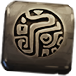
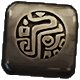
placeholder button for new feature

diff --git a/css/web/boxes.css b/css/web/boxes.css
@@ -474,6 +474,10 @@ p {
 	background: linear-gradient(#464040, #2c2d33) padding-box, linear-gradient(to bottom, #82ae4c, #4f7421) border-box;
 }
 
+[id$=marketOffers-Btn] span {
+	background-image: url('../images/menu/marketOffers.png');
+}
+
 [id$=stats-Btn] span {
 	background-image: url('../images/menu/stats.png');
 }
